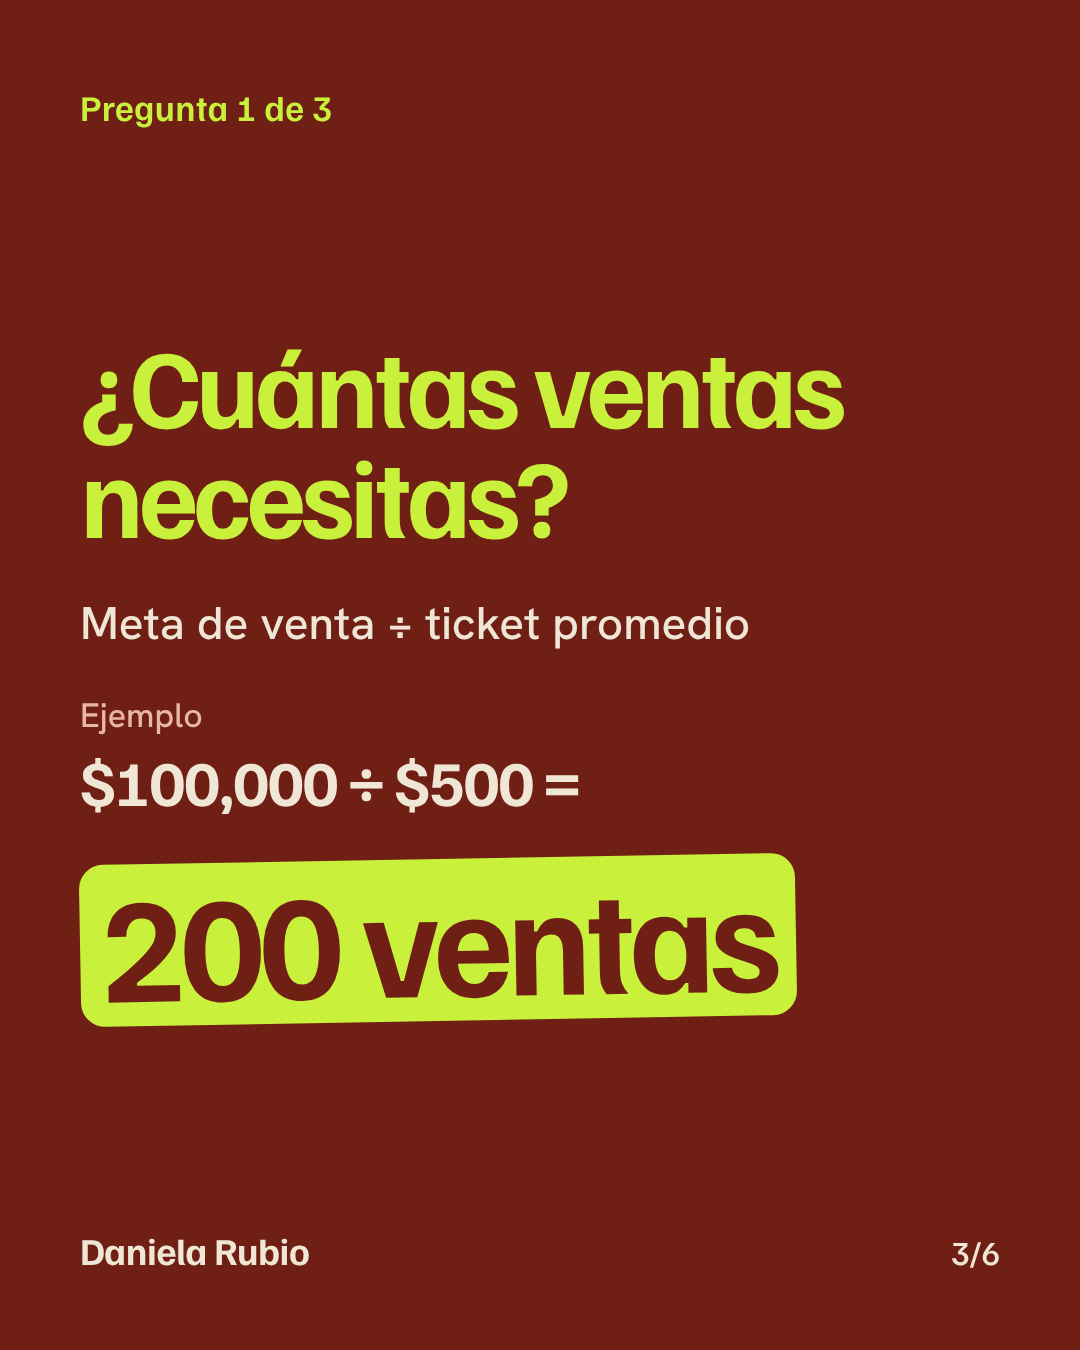
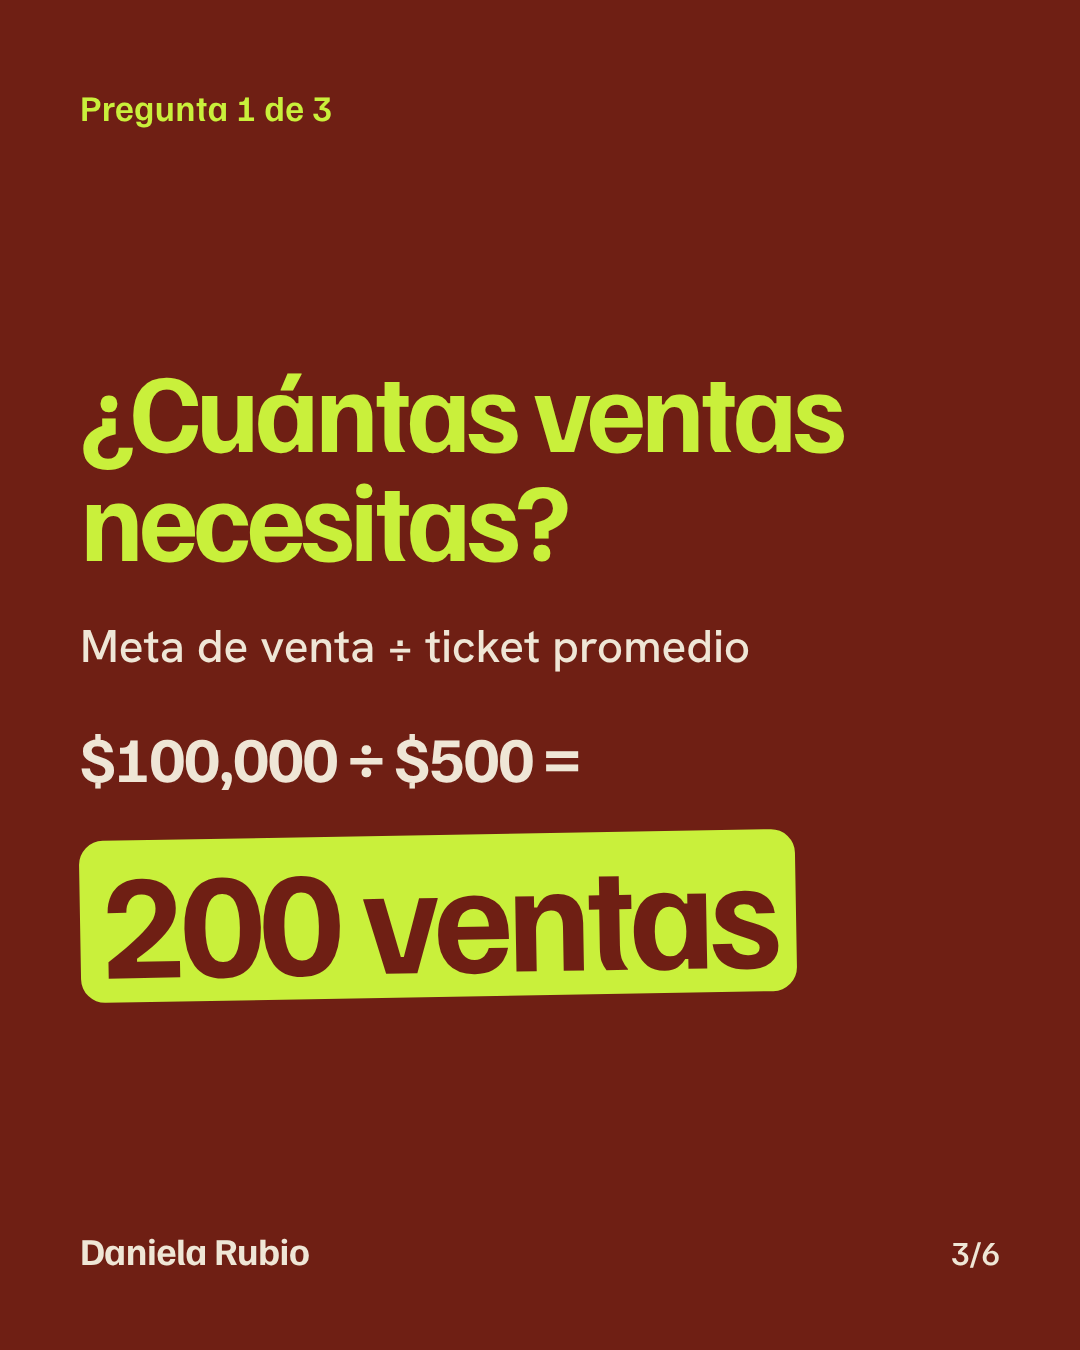
Carousel: remove third-party citation and example labels, align slide text with final wording
Claude-Session: https://claude.ai/code/session_014dQd3mrkgQtwWxvFeE2YY6

Changed region(s): [[0.0611, 0.5289, 0.7333, 0.7778], [0.0611, 0.2489, 0.7944, 0.4978]]

diff --git a/docs/borradores-semana-1.md b/docs/borradores-semana-1.md
@@ -9,7 +9,7 @@ Tema de la semana: **¿Cuánto debo invertir en pauta?** · Postura: **Cada peso
 ## Lunes 26 oct, hoy · Instagram · Carrusel (Pregunta)
 
 **Láminas (1080×1350, campo rojo quemado, pregunta en lima):**
-**VERSIÓN 6, TEXTO FINAL DE DANIELA (usar esta).** Ángulo «la llamada», formato Pregunta, 6 láminas. Cálculo de la calculadora de presupuesto para anuncios de Felipe Vergara (**[VERIFICAR]** que se puede citar con su nombre). Números de ejemplo, inventados.
+**VERSIÓN 6, TEXTO FINAL DE DANIELA (usar esta).** Ángulo «la llamada», formato Pregunta, 6 láminas. Números de ejemplo, inventados. Sin citas de terceros.
 
 **Láminas:**
 1. (Portada) ¿Cuánto debo invertir en pauta? / Te respondo como en una llamada: con tres preguntas, no con un monto.
@@ -28,7 +28,7 @@ Es la pregunta que más me hacen los dueños de negocio. Mi respuesta no es un m
 
 Y una prueba: compáralo con lo que pagas hoy por venta. Si ya pagas más de tu tope de inversión, el problema no es el presupuesto, es lo que pagas por cada venta.
 
-El cálculo es el de la calculadora de presupuesto de Felipe Vergara. Los números del carrusel son de ejemplo. Guárdalo y haz el tuyo; si quieres, escríbeme y lo calculamos juntos.
+Los números del carrusel son de ejemplo. Guárdalo y haz el tuyo; si quieres, escríbeme y lo calculamos juntos.
 
 #paidmedia #metaads #googleads
 
@@ -53,7 +53,7 @@ Es la pregunta que más me hacen los dueños de negocio. Mi respuesta no es un m
 
 Y una prueba: compáralo con lo que pagas hoy por venta. Si ya pagas más de tu tope de inversión, el problema no es el presupuesto, es lo que pagas por cada venta.
 
-El cálculo es el de la calculadora de presupuesto de Felipe Vergara. Los números del carrusel son de ejemplo. Guárdalo y haz el tuyo; si quieres, escríbeme y lo calculamos juntos.
+Los números del carrusel son de ejemplo. Guárdalo y haz el tuyo; si quieres, escríbeme y lo calculamos juntos.
 
 #paidmedia #metaads #googleads
 
